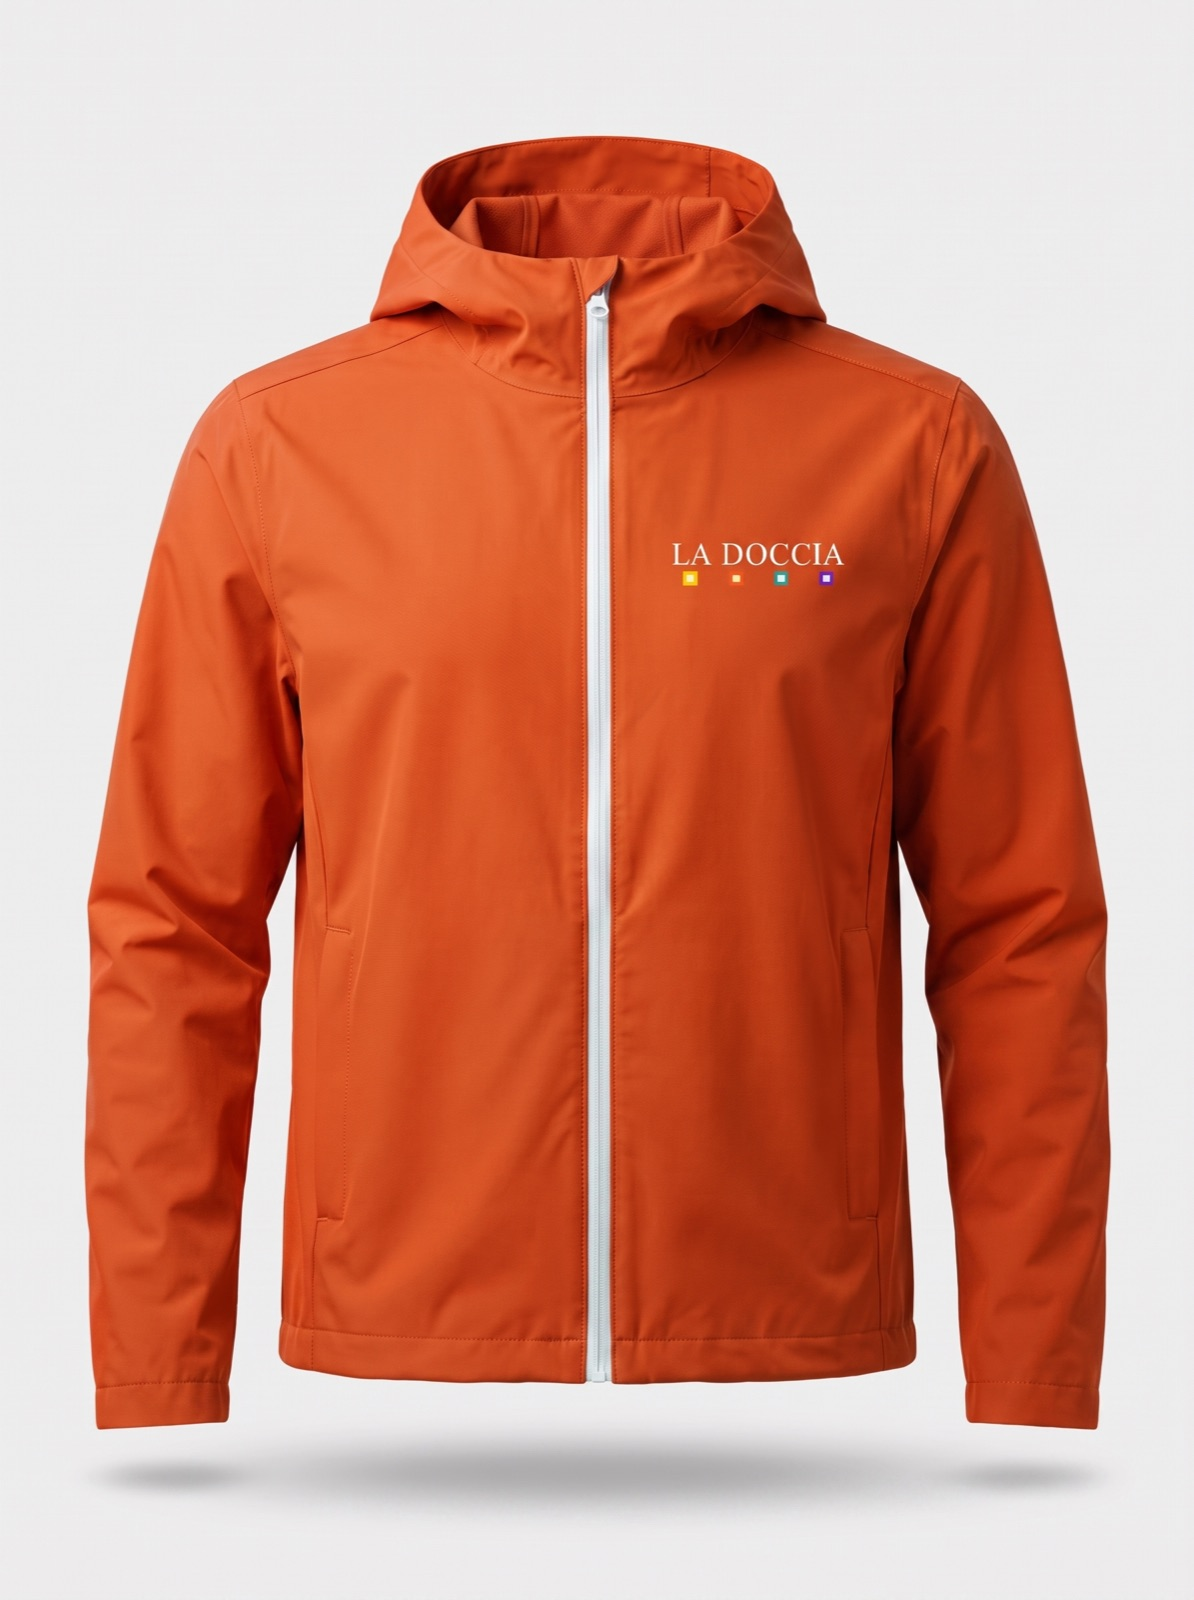
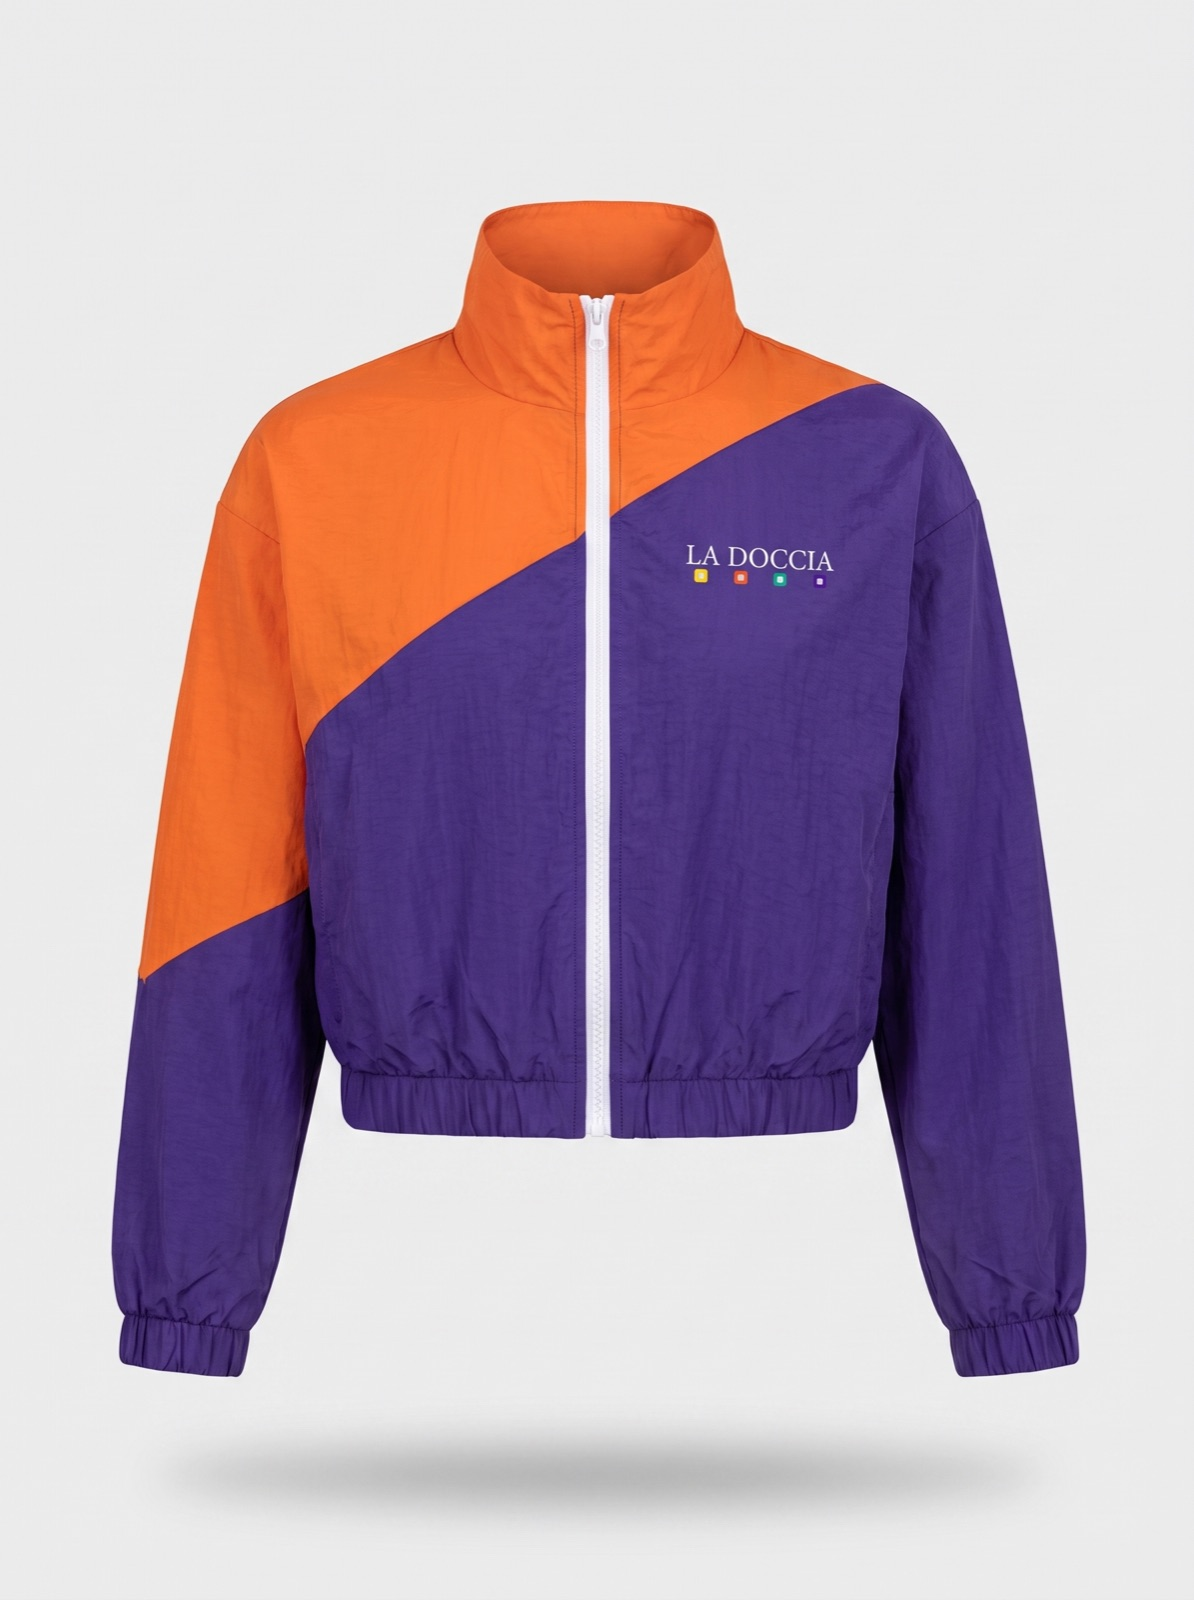
Drei Luxus-Parfüms, differenzierte Jacken, Körperöl und Badesalz + Feinschliff
Luxus-Parfümerie (je 159/149/139 Euro, mit gemeinsamem Kampagnen-Stillleben):
- 'Notte': schwarzes Glas mit Goldschimmer, dramatisches Spotlight
- 'Marmo': Flakon mit Marmor-Maserung, Galerie-Licht
- 'Prisma': facettierter Kristall, der das Licht in Regenbogen bricht

Jacken deutlich unterschiedlicher:
- Anorak 'Tempesta' neu: kastiger Tuerkis/Gelb-Colorblock mit Kaengurutasche
- Windbreaker 'Vento' neu: cropped, Stehkragen, diagonales Orange/Violett
- Alte Szenenbilder der beiden entfernt, neue Detail-Makros eingehaengt

Neue Beauty-Produkte: Koerperoel 'Oro' (Goldschimmer-Pipettenflasche),
Badesalz 'Cristalli' (vier Farbschichten im Apothekerglas)

Ordnung: Sortier-Option 'Neueste zuerst', NEU-Seiten-Rail mit den Luxusduften
vorneweg — Katalog jetzt 111 Artikel

diff --git a/index.html b/index.html
@@ -2164,9 +2164,9 @@ const P=[
  {id:'p65',cat:'mode',sc:'schuhe',n:'Chelsea-Boot „Lucido“, wasserdicht',p:119,img:'assets/p/65_a.jpg',img2:'assets/p/65_b.jpg',gal:["assets/p/65_b.jpg", "assets/p/65_c.jpg"],r:4.7,rv:14,badge:'Neu',sizes:["36/37","38/39","40/41","42/43"],mat:'Gummiertes Leder, wasserdicht',rel:["p63","p64","p69"],d:'Wasserdichter Chelsea-Boot in Violett mit elastischem Einstieg — der elegante Schuh für Regentage.',x:'Verschweißte Sohle, wasserdichtes Obermaterial. Mit feuchtem Tuch pflegen, kein Imprägnierspray nötig.'},
  {id:'p66',cat:'mode',sc:'schuhe',n:'Loafer „Giallo“, wasserfest',p:89,img:'assets/p/66_a.jpg',img2:'assets/p/66_b.jpg',gal:["assets/p/66_b.jpg", "assets/p/66_c.jpg"],r:4.8,rv:11,badge:'Neu',sizes:["36/37","38/39","40/41","42/43"],mat:'Gummierter Feinstoff, wasserfest',rel:["p64","p65","p47"],d:'Gelber Loafer mit gummierter Oberfläche und weißer Sohle — Büro-tauglich, regenfest.',x:'Wasserfest bis starker Regen, abwischbar. Herausnehmbares Fußbett, rutschhemmende Sohle.'},
  {id:'p67',cat:'mode',sc:'schuhe',n:'Sandale „Estate“, wasserfest',p:59,img:'assets/p/67_a.jpg',img2:'assets/p/67_b.jpg',gal:["assets/p/67_b.jpg", "assets/p/67_c.jpg"],r:4.6,rv:9,badge:'Neu',sizes:["36/37","38/39","40/41","42/43"],mat:'EVA & Softriemen, wasserfest',rel:["p48","p66","p55"],d:'Sportliche Sandale in Orange mit weicher Dämpfung — für Pool, Strand und Sommerregen.',x:'Komplett wasserfest, schnelltrocknende Riemen, waschbar bei 30 °C.'},
- {id:'p68',cat:'mode',sc:'jacken',n:'Anorak „Tempesta“',p:139,img:'assets/p/68_a.jpg',img2:'assets/p/68_b.jpg',gal:["assets/p/68_b.jpg", "assets/p/68_c.jpg"],r:4.8,rv:13,badge:'Neu',mat:'100 % Polyester, PFC-frei imprägniert',sizes:["S","M","L","XL"],rel:["p62","p70","p63"],d:'Gelber Anorak mit halbem Reißverschluss und Kängurutasche — das Wasser perlt einfach ab.',x:'Wassersäule 10.000 mm, verschweißte Nähte. Bei 30 °C waschen, Imprägnierung im Trockner reaktivieren.'},
+ {id:'Kastiger Colorblock-Anorak in Türkis und Gelb mit Half-Zip und Kängurutasche — das Wasser perlt einfach ab.',cat:'mode',sc:'jacken',n:'Anorak „Tempesta“',p:139,img:'assets/p/68_a.jpg',img2:'assets/p/68_b.jpg',gal:["assets/p/68_b.jpg"],r:4.8,rv:13,badge:'Neu',mat:'100 % Polyester, PFC-frei imprägniert',sizes:["S","M","L","XL"],rel:["p62","p70","p63"],d:'Gelber Anorak mit halbem Reißverschluss und Kängurutasche — das Wasser perlt einfach ab.',x:'Wassersäule 10.000 mm, getapte Nähte, elastischer Saum. Bei 30 °C waschen, Imprägnierung im Trockner reaktivieren.'},
  {id:'p69',cat:'mode',sc:'jacken',n:'Parka „Riparo“',p:189,img:'assets/p/69_a.jpg',img2:'assets/p/69_b.jpg',gal:["assets/p/69_b.jpg", "assets/p/69_c.jpg"],r:4.9,rv:8,badge:'Neu',mat:'100 % Polyester, PFC-frei imprägniert',sizes:["S","M","L","XL"],rel:["p62","p68","p65"],d:'Langer wasserdichter Parka in Violett — bedeckt bis über den Oberschenkel, mit großen Pattentaschen.',x:'Wassersäule 10.000 mm, verschweißte Nähte, verstellbare Kapuze. Bei 30 °C waschen.'},
- {id:'p70',cat:'mode',sc:'jacken',n:'Windbreaker „Vento“',p:99,img:'assets/p/70_a.jpg',img2:'assets/p/70_b.jpg',gal:["assets/p/70_b.jpg", "assets/p/70_c.jpg"],r:4.7,rv:16,badge:'Neu',mat:'100 % Ripstop-Polyester, wasserabweisend',sizes:["S","M","L","XL"],rel:["p68","p62","p67"],d:'Ultraleichter Windbreaker in Orange — passt gefaltet in die eigene Brusttasche.',x:'Wasserabweisend und winddicht, 98 Gramm leicht. Ideal für Sport, Reise und Wetterumschwünge.'},
+ {id:'Kurz geschnittener Windbreaker mit Stehkragen und diagonalem Farbverlauf von Orange zu Violett — 98 Gramm leicht.',cat:'mode',sc:'jacken',n:'Windbreaker „Vento“',p:99,img:'assets/p/70_a.jpg',img2:'assets/p/70_b.jpg',gal:["assets/p/70_b.jpg"],r:4.7,rv:16,badge:'Neu',mat:'100 % Ripstop-Polyester, wasserabweisend',sizes:["S","M","L","XL"],rel:["p68","p62","p67"],d:'Ultraleichter Windbreaker in Orange — passt gefaltet in die eigene Brusttasche.',x:'Wasserabweisend und winddicht, reflektierender Reißverschluss. Passt gefaltet in die eigene Brusttasche.'},
  {id:'p71',cat:'mode',sc:'jacken',n:'Trenchcoat „Milano“, wasserdicht',p:199,img:'assets/p/71_a.jpg',img2:'assets/p/71_b.jpg',gal:["assets/p/71_b.jpg", "assets/p/71_c.jpg"],r:4.9,rv:6,badge:'Neu',mat:'Technisches Gabardine-Gewebe, wasserdicht',sizes:["S","M","L","XL"],rel:["p69","p62","p65"],d:'Eleganter wasserdichter Trenchcoat in Off-White mit Gürtel — Klassiker-Silhouette, moderne Membran.',x:'Wasserdicht mit klassischer Optik: verdeckte Knopfleiste, verschweißte Nähte. Professionelle Pflege empfohlen.'},
  {id:'p72',cat:'schmuck',sc:'ohrringe',n:'Ohrstecker „Quattro“',p:29,img:'assets/p/72_a.jpg',r:4.9,rv:21,badge:'Neu',rel:["p73","p74","p61"],d:'Ohrstecker in gebürstetem Gold — je ein offenes Quadrat mit Emaille in Türkis und Violett.',x:'Wasserfest und nickelfrei — bleibt beim Duschen und Schwimmen einfach an. 925er-Silberstift, vergoldet.'},
  {id:'p73',cat:'schmuck',sc:'ohrringe',n:'Creolen „Cerchio“',p:39,img:'assets/p/73_a.jpg',r:4.8,rv:15,badge:'Neu',rel:["p72","p75","p76"],d:'Goldene Creolen mit kleinen Quadrat-Charms in Gelb und Orange — dezent bunt.',x:'Wasserfest und nickelfrei, Steckverschluss. Charms abnehmbar und mit p81 kombinierbar.'},
@@ -2193,6 +2193,11 @@ const P=[
  {id:'p94',cat:'kosmetik',sc:'koerper',n:'Lippenbalsam „Berry“',p:9,img:'assets/p/94_a.jpg',r:4.9,rv:18,badge:'Neu',rel:["p95","p17","p15"],d:'Beeren-Lippenbalsam in der runden Violett-Tube — mit zartem Farbschimmer.',x:'Mit Sheabutter und Beerenwachs, leicht tönend. Ohne Mineralöl.'},
  {id:'p95',cat:'kosmetik',sc:'koerper',n:'Lippenbalsam „Citrus“',p:9,img:'assets/p/95_a.jpg',r:4.8,rv:15,badge:'Neu',rel:["p94","p17","p18"],d:'Zitrus-Lippenbalsam im Gelb-Orange-Verlauf — frisch, pflegend, sommerlich.',x:'Mit Sheabutter und Zitrusöl, mit LSF 15. Ohne Mineralöl.'},
  {id:'p96',cat:'kosmetik',sc:'dusche',n:'Duschgel „Tropic“, 250 ml',p:16,img:'assets/p/96_a.jpg',r:4.8,rv:12,badge:'Neu',ml:250,rel:["p09","p96","p87"],d:'Tropisches Duschgel im Türkis-Limette-Verlauf — Kokoswasser und Limette unter der Dusche.',x:'Sulfatfrei, pH 5,5. Der Urlaubs-Duft für jeden Morgen.'},
+ {id:'p97',cat:'parfuem',sc:'edp',n:'Eau de Parfum „Notte“, 50 ml',p:159,img:'assets/p/97_a.jpg',img2:'assets/p/luxus-trio.jpg',gal:["assets/p/luxus-trio.jpg"],r:5.0,rv:6,badge:'Neu',rel:["p91","p90","p02"],d:'Das schwarze Juwel der Kollektion: Oud, schwarze Vanille und Ambra im Flakon aus schwarzem Glas mit Goldschimmer.',x:'15 % Duftölanteil, hält über 10 Stunden — der Abendduft für besondere Anlässe. In der Geschenkbox mit Magnetverschluss.'},
+ {id:'p98',cat:'parfuem',sc:'edp',n:'Eau de Parfum „Marmo“, 50 ml',p:149,img:'assets/p/98_a.jpg',img2:'assets/p/luxus-trio.jpg',gal:["assets/p/luxus-trio.jpg"],r:4.9,rv:8,badge:'Neu',rel:["p97","p01","p90"],d:'Kühle Eleganz: weißer Moschus, Iris und ein Hauch nasser Stein — im Flakon mit echter Marmor-Maserung, jedes Stück ein Unikat.',x:'12 % Duftölanteil, hält 7–9 Stunden. Der cleane Signature-Duft für jeden Tag mit Anspruch.'},
+ {id:'p99',cat:'parfuem',sc:'edp',n:'Eau de Parfum „Prisma“, 50 ml',p:139,img:'assets/p/99_a.jpg',img2:'assets/p/luxus-trio.jpg',gal:["assets/p/luxus-trio.jpg"],r:4.9,rv:5,badge:'Neu',rel:["p90","p91","p97"],d:'Licht in Duftform: Bergamotte, Neroli und weiße Blüten im facettierten Kristallflakon, der das Licht in Farben bricht.',x:'12 % Duftölanteil, hält 6–8 Stunden. Frisch-blumig — die vier Quadrate als Lichtspektrum gedacht.'},
+ {id:'p100',cat:'kosmetik',sc:'koerper',n:'Körperöl „Oro“, 100 ml',p:34,img:'assets/p/100_a.jpg',r:4.9,rv:9,badge:'Neu',ml:100,rel:["p13","p14","p97"],d:'Trockenöl mit feinem Goldschimmer in der Pipettenflasche — Glow für Haut und Haar.',x:'98 % Ölanteil aus Jojoba und Mandel, zieht schnell ein. Auf die feuchte Haut oder in die Längen geben.'},
+ {id:'p101',cat:'kosmetik',sc:'dusche',n:'Badesalz „Cristalli“, 400 g',p:24,img:'assets/p/101_a.jpg',r:4.8,rv:7,badge:'Neu',g:400,rel:["p96","p11","p100"],d:'Grobes Badesalz in den vier Markenfarben, geschichtet im Apothekerglas mit Korkdeckel — fast zu schön zum Auflösen.',x:'Mit Meersalz und ätherischen Ölen, je Farbe eine Duftnote. 2–3 Esslöffel ins warme Wasser.'},
  {id:'S1',cat:'kosmetik',sc:'koerper',n:"Willkommensset",p:49,img:'assets/s/S1_willkommensset_a.webp',img2:'assets/s/S1_willkommensset_b.webp',gal:["assets/s/S1_willkommensset_b.webp", "assets/s/S1_willkommensset_c.webp"],r:4.8,rv:29,badge:"Set",rel:["p13", "p14", "p15"],d:"Duschgel, Bodylotion und Seifenstück als Einstieg in die Kollektion — schön verpackt, sofort verschenkbar.",x:"Mit Sheabutter und Panthenol, ohne Mineralöl. Im Winter großzügiger dosieren, im Sommer reicht eine dünne Schicht auf der noch feuchten Haut."},
  {id:'S2',cat:'kosmetik',sc:'dusche',n:"Duschset komplett",p:69,old:89,img:'assets/s/S2_duschset-komplett_a.webp',img2:'assets/s/S2_duschset-komplett_b.webp',gal:["assets/s/S2_duschset-komplett_b.webp", "assets/s/S2_duschset-komplett_c.webp"],r:4.9,rv:36,badge:"Set",rel:["p09", "p10", "p11"],d:"Die komplette Dusch-Routine: Duschgel, Duschöl und Duschpeeling im Set — Sie sparen gegenüber dem Einzelkauf.",x:"Sulfatfrei, pH 5,5, mit Aloe vera und pflanzlichem Glyzerin — mild genug für zweimal tägliches Duschen, auch bei empfindlicher Haut."},
  {id:'S3',cat:'parfuem',sc:'edp',n:"Duft-Geschenkbox",p:129,img:'assets/s/S3_duft-geschenkbox_a.webp',img2:'assets/s/S3_duft-geschenkbox_b.webp',gal:["assets/s/S3_duft-geschenkbox_b.webp", "assets/s/S3_duft-geschenkbox_c.webp"],r:5.0,rv:7,badge:"Set",rel:["p01", "p02", "p03"],d:"Beide Signature-Düfte mit Duftkerze in der Geschenkbox — das große Duft-Geschenk der Kollektion.",x:"10–12 % Duftölanteil, hält 6–8 Stunden auf der Haut. 2 Sprühstöße auf Puls und Schlüsselbein genügen. Kühl und dunkel gelagert mindestens 24 Monate haltbar."},
@@ -2292,7 +2297,7 @@ document.getElementById('catBar').innerHTML =
          oninput="curQ=this.value;renderShop();suggest()"><div class="sgg" id="sgg"></div></label>
      <span class="fcount" id="fcount"></span>
      <select class="fsel" id="sortSel" onchange="curSort=this.value;renderShop()">
-       <option value="rec">Empfohlen</option><option value="asc">Preis aufsteigend</option>
+       <option value="rec">Empfohlen</option><option value="new">Neueste zuerst</option><option value="asc">Preis aufsteigend</option>
        <option value="desc">Preis absteigend</option><option value="sale">Sale zuerst</option>
      </select></div>`;
 function whoFilt(id){curWho=id;renderShop()}
@@ -2311,6 +2316,7 @@ function sortList(l){
   if(curSort==='asc')l.sort((a,b)=>a.p-b.p);
   if(curSort==='desc')l.sort((a,b)=>b.p-a.p);
   if(curSort==='sale')l.sort((a,b)=>disc(b)-disc(a));
+  if(curSort==='new')l.sort((a,b)=>(b.badge==='Neu'?1:0)-(a.badge==='Neu'?1:0));
   return l;
 }
 function crumb2(name){
@@ -2343,7 +2349,7 @@ function renderShop(){
           <button class="btn pill" onclick="filt('kinderwelt')">Für Kinder entdecken</button></div>
       </div>
       <div class="grouplbl" style="margin-top:26px">Für Kinder</div>${rail(['p82','p83','p85','p84','p86','p87'])}
-      <div class="grouplbl" style="margin-top:46px">Neue Pflege &amp; Düfte</div>${rail(['p90','p91','p92','p93','p94','p95','p96'])}
+      <div class="grouplbl" style="margin-top:46px">Neue Pflege &amp; Düfte</div>${rail(['p97','p98','p99','p90','p91','p100','p101','p92','p94'])}
       <div class="grouplbl" style="margin-top:46px">Neu in Mode</div>${rail(['p62','p71','p64','p63','p68','p69'])}
       <div style="margin-top:38px;text-align:center"><button class="btn ghost" onclick="filt('neu')">Alle Neuheiten als Liste</button></div>`;
     document.getElementById('fcount').textContent='Neuheiten';
